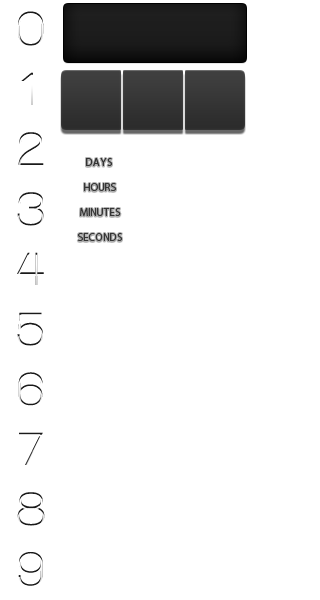
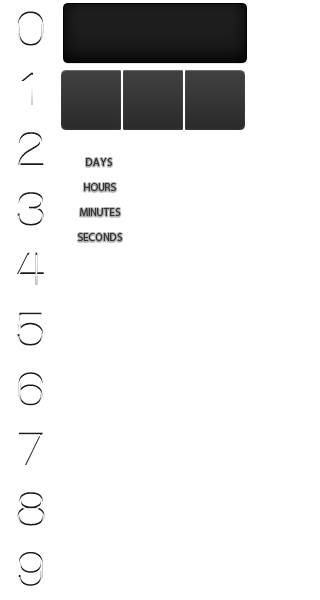
Fixed shadow and placement of countdown.

Changed region(s): [[0.1875, 0.12, 0.7812, 0.24]]

diff --git a/output/category/poems3.html b/output/category/poems3.html
@@ -136,7 +136,7 @@
   </div>
 </div>
 
-<pelican.paginator.Paginator object at 0x101c79f10>
+<pelican.paginator.Paginator object at 0x101c78f10>
 <div class="pagination">
   <ul>
             <a href="/category/poems2.html">&laquo;</a>
@@ -149,7 +149,7 @@
             
       <div class="row">
         <hr />
-        <div class="span8 offset2">
+        <div class="span6 offset3">
 
           <!-- countdown -->
           <div id="DIV_TO_PLACE_COUNTDOWN"></div>
@@ -163,7 +163,7 @@
 	      width:0,
 	      textGroupSpace:15,
 	      textSpace:0,
-	      reflection:true,
+	      reflection:false,
 	      reflectionOpacity:10,
 	      reflectionBlur:0,
 	      dayTextNumber:3,

diff --git a/output/category/poems2.html b/output/category/poems2.html
@@ -136,7 +136,7 @@
   </div>
 </div>
 
-<pelican.paginator.Paginator object at 0x101c79f10>
+<pelican.paginator.Paginator object at 0x101c78f10>
 <div class="pagination">
   <ul>
             <a href="/category/poems.html">&laquo;</a>
@@ -149,7 +149,7 @@
             
       <div class="row">
         <hr />
-        <div class="span8 offset2">
+        <div class="span6 offset3">
 
           <!-- countdown -->
           <div id="DIV_TO_PLACE_COUNTDOWN"></div>
@@ -163,7 +163,7 @@
 	      width:0,
 	      textGroupSpace:15,
 	      textSpace:0,
-	      reflection:true,
+	      reflection:false,
 	      reflectionOpacity:10,
 	      reflectionBlur:0,
 	      dayTextNumber:3,

diff --git a/output/author/emish3.html b/output/author/emish3.html
@@ -136,7 +136,7 @@
   </div>
 </div>
 
-<pelican.paginator.Paginator object at 0x101c79850>
+<pelican.paginator.Paginator object at 0x101c78850>
 <div class="pagination">
   <ul>
             <a href="/author/emish2.html">&laquo;</a>
@@ -149,7 +149,7 @@
             
       <div class="row">
         <hr />
-        <div class="span8 offset2">
+        <div class="span6 offset3">
 
           <!-- countdown -->
           <div id="DIV_TO_PLACE_COUNTDOWN"></div>
@@ -163,7 +163,7 @@
 	      width:0,
 	      textGroupSpace:15,
 	      textSpace:0,
-	      reflection:true,
+	      reflection:false,
 	      reflectionOpacity:10,
 	      reflectionBlur:0,
 	      dayTextNumber:3,

diff --git a/output/category/poems4.html b/output/category/poems4.html
@@ -93,7 +93,7 @@
   </div>
 </div>
 
-<pelican.paginator.Paginator object at 0x101c79f10>
+<pelican.paginator.Paginator object at 0x101c78f10>
 <div class="pagination">
   <ul>
             <a href="/category/poems3.html">&laquo;</a>
@@ -105,7 +105,7 @@
             
       <div class="row">
         <hr />
-        <div class="span8 offset2">
+        <div class="span6 offset3">
 
           <!-- countdown -->
           <div id="DIV_TO_PLACE_COUNTDOWN"></div>
@@ -119,7 +119,7 @@
 	      width:0,
 	      textGroupSpace:15,
 	      textSpace:0,
-	      reflection:true,
+	      reflection:false,
 	      reflectionOpacity:10,
 	      reflectionBlur:0,
 	      dayTextNumber:3,

diff --git a/output/author/emish2.html b/output/author/emish2.html
@@ -136,7 +136,7 @@
   </div>
 </div>
 
-<pelican.paginator.Paginator object at 0x101c79850>
+<pelican.paginator.Paginator object at 0x101c78850>
 <div class="pagination">
   <ul>
             <a href="/author/emish.html">&laquo;</a>
@@ -149,7 +149,7 @@
             
       <div class="row">
         <hr />
-        <div class="span8 offset2">
+        <div class="span6 offset3">
 
           <!-- countdown -->
           <div id="DIV_TO_PLACE_COUNTDOWN"></div>
@@ -163,7 +163,7 @@
 	      width:0,
 	      textGroupSpace:15,
 	      textSpace:0,
-	      reflection:true,
+	      reflection:false,
 	      reflectionOpacity:10,
 	      reflectionBlur:0,
 	      dayTextNumber:3,

diff --git a/output/author/emish4.html b/output/author/emish4.html
@@ -93,7 +93,7 @@
   </div>
 </div>
 
-<pelican.paginator.Paginator object at 0x101c79850>
+<pelican.paginator.Paginator object at 0x101c78850>
 <div class="pagination">
   <ul>
             <a href="/author/emish3.html">&laquo;</a>
@@ -105,7 +105,7 @@
             
       <div class="row">
         <hr />
-        <div class="span8 offset2">
+        <div class="span6 offset3">
 
           <!-- countdown -->
           <div id="DIV_TO_PLACE_COUNTDOWN"></div>
@@ -119,7 +119,7 @@
 	      width:0,
 	      textGroupSpace:15,
 	      textSpace:0,
-	      reflection:true,
+	      reflection:false,
 	      reflectionOpacity:10,
 	      reflectionBlur:0,
 	      dayTextNumber:3,

diff --git a/output/index3.html b/output/index3.html
@@ -136,7 +136,7 @@
   </div>
 </div>
 
-<pelican.paginator.Paginator object at 0x101c85650>
+<pelican.paginator.Paginator object at 0x101c84650>
 <div class="pagination">
   <ul>
             <a href="/index2.html">&laquo;</a>
@@ -149,7 +149,7 @@
             
       <div class="row">
         <hr />
-        <div class="span8 offset2">
+        <div class="span6 offset3">
 
           <!-- countdown -->
           <div id="DIV_TO_PLACE_COUNTDOWN"></div>
@@ -163,7 +163,7 @@
 	      width:0,
 	      textGroupSpace:15,
 	      textSpace:0,
-	      reflection:true,
+	      reflection:false,
 	      reflectionOpacity:10,
 	      reflectionBlur:0,
 	      dayTextNumber:3,

diff --git a/output/index2.html b/output/index2.html
@@ -136,7 +136,7 @@
   </div>
 </div>
 
-<pelican.paginator.Paginator object at 0x101c85650>
+<pelican.paginator.Paginator object at 0x101c84650>
 <div class="pagination">
   <ul>
             <a href="/index.html">&laquo;</a>
@@ -149,7 +149,7 @@
             
       <div class="row">
         <hr />
-        <div class="span8 offset2">
+        <div class="span6 offset3">
 
           <!-- countdown -->
           <div id="DIV_TO_PLACE_COUNTDOWN"></div>
@@ -163,7 +163,7 @@
 	      width:0,
 	      textGroupSpace:15,
 	      textSpace:0,
-	      reflection:true,
+	      reflection:false,
 	      reflectionOpacity:10,
 	      reflectionBlur:0,
 	      dayTextNumber:3,

diff --git a/output/index4.html b/output/index4.html
@@ -93,7 +93,7 @@
   </div>
 </div>
 
-<pelican.paginator.Paginator object at 0x101c85650>
+<pelican.paginator.Paginator object at 0x101c84650>
 <div class="pagination">
   <ul>
             <a href="/index3.html">&laquo;</a>
@@ -105,7 +105,7 @@
             
       <div class="row">
         <hr />
-        <div class="span8 offset2">
+        <div class="span6 offset3">
 
           <!-- countdown -->
           <div id="DIV_TO_PLACE_COUNTDOWN"></div>
@@ -119,7 +119,7 @@
 	      width:0,
 	      textGroupSpace:15,
 	      textSpace:0,
-	      reflection:true,
+	      reflection:false,
 	      reflectionOpacity:10,
 	      reflectionBlur:0,
 	      dayTextNumber:3,

diff --git a/output/author/emish.html b/output/author/emish.html
@@ -136,7 +136,7 @@
   </div>
 </div>
 
-<pelican.paginator.Paginator object at 0x101c79850>
+<pelican.paginator.Paginator object at 0x101c78850>
 <div class="pagination">
   <ul>
         Page 1 / 4
@@ -148,7 +148,7 @@
             
       <div class="row">
         <hr />
-        <div class="span8 offset2">
+        <div class="span6 offset3">
 
           <!-- countdown -->
           <div id="DIV_TO_PLACE_COUNTDOWN"></div>
@@ -162,7 +162,7 @@
 	      width:0,
 	      textGroupSpace:15,
 	      textSpace:0,
-	      reflection:true,
+	      reflection:false,
 	      reflectionOpacity:10,
 	      reflectionBlur:0,
 	      dayTextNumber:3,

diff --git a/output/category/poems.html b/output/category/poems.html
@@ -136,7 +136,7 @@
   </div>
 </div>
 
-<pelican.paginator.Paginator object at 0x101c79f10>
+<pelican.paginator.Paginator object at 0x101c78f10>
 <div class="pagination">
   <ul>
         Page 1 / 4
@@ -148,7 +148,7 @@
             
       <div class="row">
         <hr />
-        <div class="span8 offset2">
+        <div class="span6 offset3">
 
           <!-- countdown -->
           <div id="DIV_TO_PLACE_COUNTDOWN"></div>
@@ -162,7 +162,7 @@
 	      width:0,
 	      textGroupSpace:15,
 	      textSpace:0,
-	      reflection:true,
+	      reflection:false,
 	      reflectionOpacity:10,
 	      reflectionBlur:0,
 	      dayTextNumber:3,

diff --git a/output/index.html b/output/index.html
@@ -101,7 +101,7 @@ neque. In luctus lectus eget leo ultrices sit amet tincidunt sapien&nbsp;dapibus
             
       <div class="row">
         <hr />
-        <div class="span8 offset2">
+        <div class="span6 offset3">
 
           <!-- countdown -->
           <div id="DIV_TO_PLACE_COUNTDOWN"></div>
@@ -115,7 +115,7 @@ neque. In luctus lectus eget leo ultrices sit amet tincidunt sapien&nbsp;dapibus
 	      width:0,
 	      textGroupSpace:15,
 	      textSpace:0,
-	      reflection:true,
+	      reflection:false,
 	      reflectionOpacity:10,
 	      reflectionBlur:0,
 	      dayTextNumber:3,
